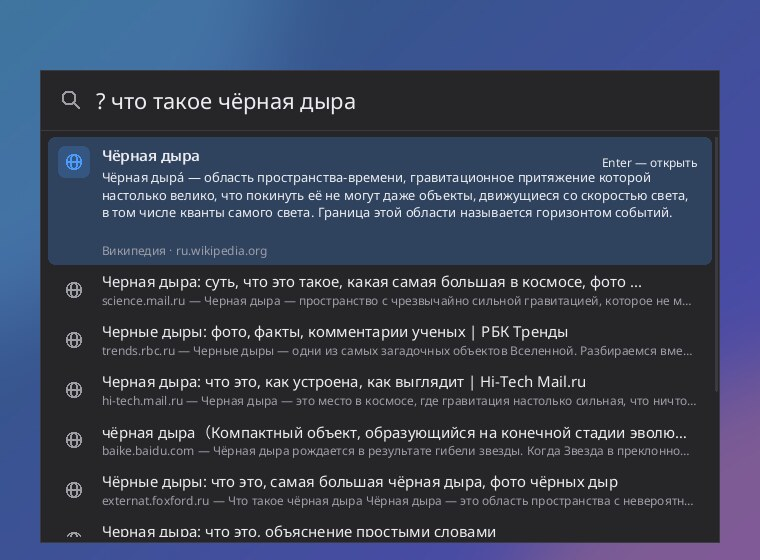
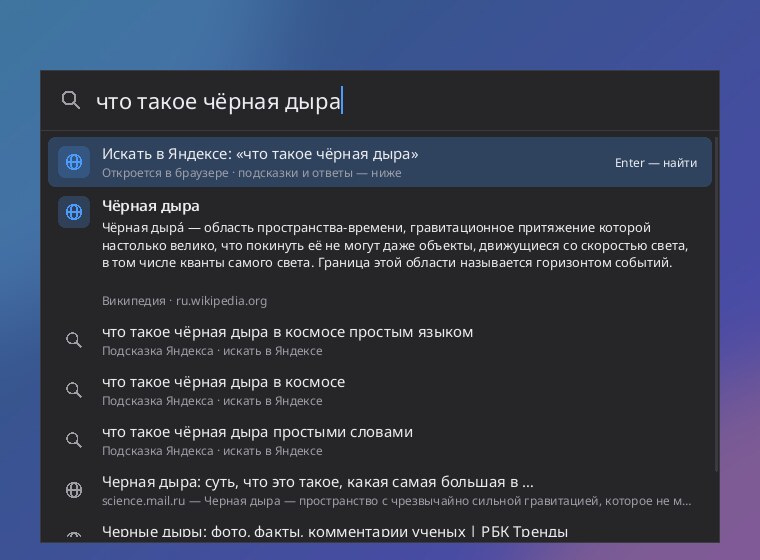
SpotDesk 1.2.1: ответы из интернета по ходу печати, подсказки Яндекса, строка поисковика первой

diff --git a/docs/index.html b/docs/index.html
@@ -108,8 +108,8 @@ footer{padding:36px 0 50px;color:var(--sub);font-size:14.5px;text-align:center;b
       <div class="card"><div class="ic">⏻</div><h3>Команды</h3><p>«блокировка», «сон», «перезагрузка», «выключить», «очистить корзину». Опасные — только после второго Enter.</p></div>
       <div class="card"><div class="ic">⚙</div><h3>Параметры Windows</h3><p>«bluetooth», «экран», «wi-fi», «звук», «обновления», «автозагрузка» — сразу нужная страница.</p></div>
       <div class="card"><div class="ic">⌨</div><h3>С клавиатуры</h3><p>↑↓ — выбор, Enter — открыть, Ctrl+Enter — показать в папке, Shift+Enter — от администратора, Tab — дополнить.</p></div>
-      <div class="card"><div class="ic">💬</div><h3>Ответы из интернета в окне</h3><p>Enter на «Искать в интернете» — быстрый ответ и ссылки прямо в окне, без браузера (DuckDuckGo и Википедия). Пока вы печатаете, в сеть ничего не уходит.</p></div>
-      <div class="card"><div class="ic">🌐</div><h3>Поиск в интернете</h3><p>Не нашлось на компьютере — последняя строка ищет в Яндексе, Google, DuckDuckGo или Bing. Префиксы: «g …», «я …», «yt …», «вики …».</p></div>
+      <div class="card"><div class="ic">💬</div><h3>Ответы из интернета по ходу печати</h3><p>Без Enter и без браузера: факты и подсказки Яндекса, справка Википедии и ссылки (Bing, DuckDuckGo; по желанию — Yandex Search API). Своё всегда сверху, ничего не прыгает.</p></div>
+      <div class="card"><div class="ic">🌐</div><h3>Поиск в интернете</h3><p>Не нашлось на компьютере — первая строка «Искать в Яндексе» (или Google, DuckDuckGo, Bing), Enter открывает выдачу. Префиксы: «g …», «я …», «yt …», «вики …».</p></div>
       <div class="card"><div class="ic">⚡</div><h3>Лёгкая</h3><p>Панель появляется мгновенно, а в простое не тратит процессор: ни опросов, ни хуков клавиатуры.</p></div>
       <div class="card"><div class="ic">🎛</div><h3>Всё отключается</h3><p>У каждой функции свой переключатель, горячая клавиша меняется. Если Alt+Space занято — SpotDesk предупредит.</p></div>
       <div class="card"><div class="ic">🌗</div><h3>Светлая и тёмная</h3><p>Следует теме Windows или выбирается вручную. По желанию — полупрозрачный фон: акрил в Windows 11, размытие в Windows 10.</p></div>
@@ -117,19 +117,20 @@ footer{padding:36px 0 50px;color:var(--sub);font-size:14.5px;text-align:center;b
   </section>
 
   <section id="shots">
-    <h2>Как это выглядит</h2><p class="sub">Настоящие снимки SpotDesk 1.2.0</p>
+    <h2>Как это выглядит</h2><p class="sub">Настоящие снимки SpotDesk 1.2.1</p>
     <div class="gal">
       <figure><img src="assets/media/bar-dark.jpg" alt="Тёмная тема: папки, файлы и программы" width="760" height="560" loading="lazy"><figcaption>Программы, папки и файлы в одном списке</figcaption></figure>
       <figure><img src="assets/media/files.jpg" alt="Поиск файлов" width="760" height="380" loading="lazy"><figcaption>Файлы — по имени, как в Everything</figcaption></figure>
-      <figure><img src="assets/media/web-answer.jpg" alt="Ответ из интернета прямо в окне" width="760" height="560" loading="lazy"><figcaption>Ответ из интернета прямо в окне</figcaption></figure>
-      <figure><img src="assets/media/web-results.jpg" alt="Ссылки из интернета в окне" width="760" height="560" loading="lazy"><figcaption>Ссылки — без браузера, Enter открывает</figcaption></figure>
+      <figure><img src="assets/media/web-live.jpg" alt="Ответы из интернета по ходу печати" width="760" height="560" loading="lazy"><figcaption>По ходу печати: факт и подсказки Яндекса, ссылки</figcaption></figure>
+      <figure><img src="assets/media/web-local.jpg" alt="Своё сверху, интернет ниже" width="760" height="560" loading="lazy"><figcaption>Своё — сверху, «Искать в Яндексе» — сразу под ним</figcaption></figure>
+      <figure><img src="assets/media/web-answer.jpg" alt="Ответ из интернета прямо в окне" width="760" height="560" loading="lazy"><figcaption>Справка и подсказки прямо в окне</figcaption></figure>
       <figure><img src="assets/media/calc.jpg" alt="Калькулятор" width="760" height="300" loading="lazy"><figcaption>Калькулятор: ответ первой строкой</figcaption></figure>
       <figure><img src="assets/media/currency.jpg" alt="Курс валют" width="760" height="300" loading="lazy"><figcaption>Курсы валют ЦБ РФ на сегодня</figcaption></figure>
       <figure><img src="assets/media/units.jpg" alt="Перевод единиц" width="760" height="300" loading="lazy"><figcaption>Единицы: «5 км в милях»</figcaption></figure>
       <figure><img src="assets/media/time.jpg" alt="Время в другом городе" width="760" height="300" loading="lazy"><figcaption>Время в городах: «время в токио»</figcaption></figure>
       <figure><img src="assets/media/commands.jpg" alt="Команды Windows" width="760" height="350" loading="lazy"><figcaption>Команды: выключить, перезагрузить, сон</figcaption></figure>
       <figure><img src="assets/media/winsettings.jpg" alt="Параметры Windows" width="760" height="300" loading="lazy"><figcaption>Параметры Windows по слову</figcaption></figure>
-      <figure><img src="assets/media/settings.jpg" alt="Настройки: что искать" width="600" height="760" loading="lazy"><figcaption>Настройки: что искать</figcaption></figure>
+      <figure><img src="assets/media/settings.jpg" alt="Настройки: поиск и ответы из интернета" width="600" height="760" loading="lazy"><figcaption>Настройки: поиск и ответы из интернета</figcaption></figure>
       <figure><img src="assets/media/settings-dark.jpg" alt="Настройки: индекс файлов в тёмной теме" width="600" height="760" loading="lazy"><figcaption>Индекс файлов и быстрый режим NTFS</figcaption></figure>
     </div>
   </section>

diff --git a/release-notes/v1.2.1.md b/release-notes/v1.2.1.md
@@ -1,0 +1,27 @@
+## 🔎 SpotDesk для Windows 1.2.1
+
+**Скачать:** `SpotDesk-1.2.1-win64.zip` ниже (или постоянная ссылка `SpotDesk-win64.zip`). Распакуйте и запустите `SpotDesk.exe`. Если SpotDesk уже установлен, он сам предложит обновиться.
+
+### Что нового
+- Ответы из интернета появляются прямо по ходу печати — Enter нажимать не нужно
+- Подсказки и быстрые факты Яндекса (погода, курсы, «сколько лет…») прямо в окне
+- «Искать в Яндексе: …» теперь первая строка, если на компьютере ничего не нашлось — Enter сразу ищет там
+- Больше никаких «подтвердите, что вы не робот»: если один сервис упирается в капчу, SpotDesk молча берёт ссылки у другого
+- По желанию — настоящие ссылки Яндекса через официальный Yandex Search API (свой ключ)
+- Окно не мигает: раздел из интернета добавляется под своим, ничего не прыгает
+
+### Подробнее
+- **По ходу печати.** Через 0,4 секунды после последней буквы (от 3 букв) SpotDesk спрашивает интернет в фоне и показывает ответ под строкой поисковика. Пока вы печатаете дальше, старый запрос отменяется. Последние 30 ответов помнятся до закрытия панели — назад по буквам ответ появляется сразу. Расчёты, курсы, единицы, даты и команды в интернет не отправляются никогда — они считаются на компьютере.
+- **Порядок строк.** Сверху — то, что точно нашлось на компьютере (программы, файлы, папки, параметры, команды) и мгновенные ответы (калькулятор, курс, единицы). Сразу под ними — «Искать в <ваш поисковик>: «запрос»». Если своего ничего не нашлось, эта строка первая, и Enter открывает выдачу вашего поисковика в браузере. Ниже — быстрый ответ, подсказки Яндекса и ссылки.
+- **Откуда ответы.** Подсказки и быстрые факты — из Яндекса (когда в настройках выбран Яндекс). Ссылки — из Bing, а если он не ответил или попросил капчу — из DuckDuckGo. Короткая справка — из Википедии и мгновенных ответов DuckDuckGo. Саму выдачу Яндекса без ключа показать нельзя: на запросы программ Яндекс отвечает капчей, поэтому полная выдача Яндекса — в браузере, первой строкой.
+- **Ссылки из Яндекса (по желанию).** «Настройки → Поиск → Ссылки из Яндекса (Yandex Search API) → Подключить…»: вставьте API-ключ и ID каталога Yandex Cloud — и ссылки в окне будут из Яндекса. Это официальный платный сервис Яндекса, ключ ваш. Ключ хранится зашифрованным средствами Windows и уходит только в Яндекс.
+- **Shift+Enter** на строке поисковика — все ответы и ссылки прямо в окне (удобно, если показ по ходу печати выключен).
+- **Приватность.** Если включено «Показывать ответы из интернета по ходу печати» (по умолчанию да), набранный текст через 0,4 с паузы уходит в Яндекс (подсказки), Bing или DuckDuckGo (ссылки) и Википедию. Выключите — и в интернет ничего не уйдёт, пока вы сами не нажмёте Shift+Enter. Запросы нигде не сохраняются. В простое SpotDesk в сеть не ходит и потоков не держит.
+
+### Если Windows предупреждает
+SmartScreen может показать «Система Windows защитила ваш компьютер» — нажмите «Подробнее» → «Выполнить в любом случае».
+
+**Требования:** Windows 10 или 11, 64-бит.
+
+<!-- publish_release.sh сам допишет строку «SHA256 (SpotDesk-1.2.1-win64.zip): …» — её читает автообновление. -->
+<!-- Первые пункты «Что нового» показываются в окне обновления (до 6 пунктов). -->
